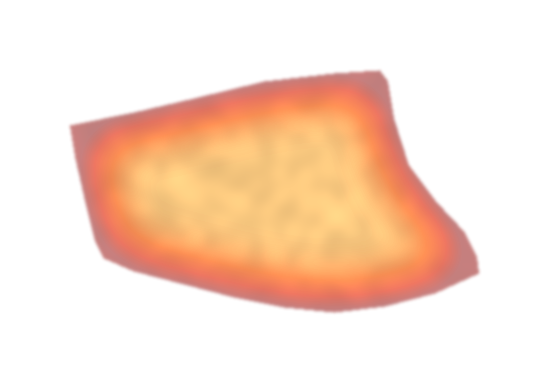
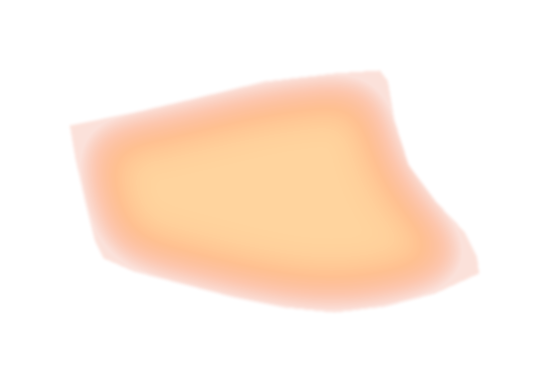
밴드 열감·섹션 여백·출처 표기·+1℃ 카드 정렬 수정

diff --git a/index.html b/index.html
@@ -1027,6 +1027,10 @@ section.band-sec{background:#000!important}
 .full-img .fi-logo img{display:block;width:180px!important;height:auto!important;aspect-ratio:auto!important;object-fit:contain!important;margin:0 auto}
 section.info-sec{background:#F4F4F4!important}
 section.evi-sec{background:#EDEDED!important}
+.sub-inner:not(.daily-inner){min-height:580px!important}
+section.summary{padding-top:0!important}
+.lw-src{text-decoration:none!important}
+.up1-sec .u1-d{order:3;align-self:center;margin-top:10px;text-align:center}
 </style>
 </head>
 <body>
@@ -1232,12 +1236,12 @@ section.evi-sec{background:#EDEDED!important}
     <span class="lw-h2 rv-up"><small>연구가 말하는</small><b>낮은 체온의 영향</b></span>
   </h2>
   <ol class="lw-list">
-    <li class="lw-item rv-up"><figure class="lw-img"><img src="img/lw_3.jpg" alt="침대에 웅크려 누워 두 손으로 아랫배를 감싼 모습" loading="lazy"></figure><span class="lw-no">01</span><div class="lw-txt"><h3>생리통</h3><p>30~50세 여성 3,140명을 분석한 연구에서, <b>손발이 차다고 답한 여성은 생리통을 겪는 경우가 더 많았어요.</b></p><a class="lw-src" href="https://pmc.ncbi.nlm.nih.gov/articles/PMC11930807/" target="_blank" rel="noopener">Tseng TG 외, 2025, Frontiers in Medicine, Clinical association of body symptoms and primary dysmenorrhea among young and middle-aged women</a></div></li>
-    <li class="lw-item rv-up"><figure class="lw-img"><img src="img/lw_4.jpg" alt="식탁에서 식사를 남기고 배를 문지르는 손" loading="lazy"></figure><span class="lw-no">02</span><div class="lw-txt"><h3>소화 불량</h3><p>국내 지역사회 주민 5,476명을 여러 해 조사한 연구에서, <b>수족냉증이 있는 사람은 소화불량을 포함한 위장 불편 점수가 더 높았어요.</b></p><a class="lw-src" href="https://www.kci.go.kr/kciportal/landing/article.kci?arti_id=ART003168185" target="_blank" rel="noopener">배광호 외, 2024, 대한한방내과학회지, 수족냉증과 위장관 증상 연관성: 지역사회 기반 코호트 연구 결과</a></div></li>
-    <li class="lw-item rv-up"><figure class="lw-img"><img src="img/lw_5.jpg" alt="밤에 이불 밖으로 나온 수면양말 신은 두 발" loading="lazy"></figure><span class="lw-no">03</span><div class="lw-txt"><h3>수면 장애</h3><p>20~40세 주민 1,810명 조사에서, 손발이 차서 불편한 사람 <b>7명 중 1명은 잠들기 어려움도 함께 겪었고, 그 비율은 약 2배였어요.</b></p><a class="lw-src" href="https://pubmed.ncbi.nlm.nih.gov/19021849/" target="_blank" rel="noopener">Kräuchi K 외, 2008, Journal of Sleep Research, Cold extremities and difficulties initiating sleep</a></div></li>
-    <li class="lw-item rv-up"><figure class="lw-img"><img src="img/lw_6.jpg" alt="창가 바닥에 앉아 무릎을 끌어안은 팔" loading="lazy"></figure><span class="lw-no">04</span><div class="lw-txt"><h3>우울감</h3><p>국내 성인 17,030명(국민건강영양조사) 분석에서, <b>수족냉증이 있는 사람은 우울 증상을 보고하는 경우가 더 많았어요.</b></p><a class="lw-src" href="https://www.kci.go.kr/kciportal/ci/sereArticleSearch/ciSereArtiView.kci?sereArticleSearchBean.artiId=ART003236263" target="_blank" rel="noopener">배광호, 2025, 대한예방한의학회지, 수족냉증과 건강 관련 삶의 질 및 정신 건강 연관성: 국민건강영양조사 결과</a></div></li>
-    <li class="lw-item rv-up"><figure class="lw-img"><img src="img/lw_1.jpg" alt="티슈와 따뜻한 차를 든 감기 기운 있는 날" loading="lazy"></figure><span class="lw-no">05</span><div class="lw-txt"><h3>감기 바이러스</h3><p>기도 세포를 33℃와 37℃에서 비교한 실험에서, <b>감기 바이러스(라이노바이러스)는 33℃에서 활발히 증식하고 37℃에서는 증식이 제한됐어요.</b></p><a class="lw-src" href="https://pmc.ncbi.nlm.nih.gov/articles/PMC4311828/" target="_blank" rel="noopener">Foxman EF 외, 2015, PNAS, Temperature-dependent innate defense against the common cold virus limits viral replication at warm temperature in mouse airway cells</a></div></li>
-    <li class="lw-item rv-up"><figure class="lw-img"><img src="img/lw_2.jpg" alt="병실 침대에서 담요를 덮은 환자의 다리와 손" loading="lazy"></figure><span class="lw-no">06</span><div class="lw-txt"><h3>감염 위험</h3><p>수술 중 심부체온이 평균 34.7℃까지 내려간 환자군은 36.6℃를 유지한 환자군보다 <b>수술 부위 감염률이 높았어요(19% 대 6%).</b></p><a class="lw-src" href="https://pubmed.ncbi.nlm.nih.gov/8606715/" target="_blank" rel="noopener">Kurz A 외, 1996, NEJM, Perioperative normothermia to reduce the incidence of surgical-wound infection and shorten hospitalization</a></div></li>
+    <li class="lw-item rv-up"><figure class="lw-img"><img src="img/lw_3.jpg" alt="침대에 웅크려 누워 두 손으로 아랫배를 감싼 모습" loading="lazy"></figure><span class="lw-no">01</span><div class="lw-txt"><h3>생리통</h3><p>30~50세 여성 3,140명을 분석한 연구에서, <b>손발이 차다고 답한 여성은 생리통을 겪는 경우가 더 많았어요.</b></p><span class="lw-src">출처 : Tseng 외, Frontiers in Medicine (2025)</span></div></li>
+    <li class="lw-item rv-up"><figure class="lw-img"><img src="img/lw_4.jpg" alt="식탁에서 식사를 남기고 배를 문지르는 손" loading="lazy"></figure><span class="lw-no">02</span><div class="lw-txt"><h3>소화 불량</h3><p>국내 지역사회 주민 5,476명을 여러 해 조사한 연구에서, <b>수족냉증이 있는 사람은 소화불량을 포함한 위장 불편 점수가 더 높았어요.</b></p><span class="lw-src">출처 : 배광호 외, 대한한방내과학회지 (2024)</span></div></li>
+    <li class="lw-item rv-up"><figure class="lw-img"><img src="img/lw_5.jpg" alt="밤에 이불 밖으로 나온 수면양말 신은 두 발" loading="lazy"></figure><span class="lw-no">03</span><div class="lw-txt"><h3>수면 장애</h3><p>20~40세 주민 1,810명 조사에서, 손발이 차서 불편한 사람 <b>7명 중 1명은 잠들기 어려움도 함께 겪었고, 그 비율은 약 2배였어요.</b></p><span class="lw-src">출처 : Kräuchi 외, Journal of Sleep Research (2008)</span></div></li>
+    <li class="lw-item rv-up"><figure class="lw-img"><img src="img/lw_6.jpg" alt="창가 바닥에 앉아 무릎을 끌어안은 팔" loading="lazy"></figure><span class="lw-no">04</span><div class="lw-txt"><h3>우울감</h3><p>국내 성인 17,030명(국민건강영양조사) 분석에서, <b>수족냉증이 있는 사람은 우울 증상을 보고하는 경우가 더 많았어요.</b></p><span class="lw-src">출처 : 배광호, 대한예방한의학회지 (2025)</span></div></li>
+    <li class="lw-item rv-up"><figure class="lw-img"><img src="img/lw_1.jpg" alt="티슈와 따뜻한 차를 든 감기 기운 있는 날" loading="lazy"></figure><span class="lw-no">05</span><div class="lw-txt"><h3>감기 바이러스</h3><p>기도 세포를 33℃와 37℃에서 비교한 실험에서, <b>감기 바이러스(라이노바이러스)는 33℃에서 활발히 증식하고 37℃에서는 증식이 제한됐어요.</b></p><span class="lw-src">출처 : Foxman 외, PNAS (2015)</span></div></li>
+    <li class="lw-item rv-up"><figure class="lw-img"><img src="img/lw_2.jpg" alt="병실 침대에서 담요를 덮은 환자의 다리와 손" loading="lazy"></figure><span class="lw-no">06</span><div class="lw-txt"><h3>감염 위험</h3><p>수술 중 심부체온이 평균 34.7℃까지 내려간 환자군은 36.6℃를 유지한 환자군보다 <b>수술 부위 감염률이 높았어요(19% 대 6%).</b></p><span class="lw-src">출처 : Kurz 외, NEJM (1996)</span></div></li>
   </ol>
 </section>
 
